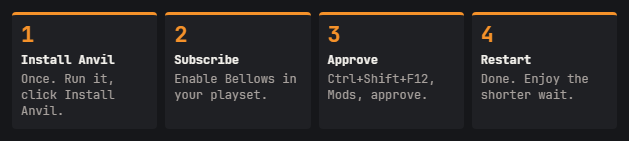
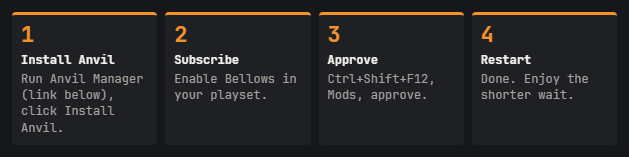
docs: plugin cards and home page in players' words, new Workshop images
The cards show the tagline instead of the summary, the Bellows highlight is rounded
to what the Workshop page says, and two home page features speak of what a player
sees. The Workshop images come from happy-dwarf-team/.github#58.

diff --git a/src/content/plugins/bellows.md b/src/content/plugins/bellows.md
@@ -9,9 +9,9 @@ affectsGameplay: false
 order: 10
 workshop: '3823747170'
 highlight:
-  label: Warm start to the main menu
-  before: 40.80 s
-  after: 12.76 s
+  label: Start to the main menu, 10 mods
+  before: 41 s
+  after: 13 s
 ---
 
 Bellows makes Europa Universalis IV start faster and the years pass sooner. It changes no game
